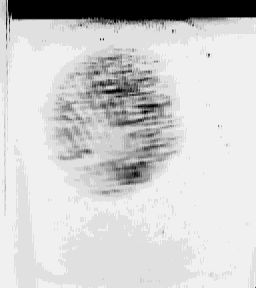
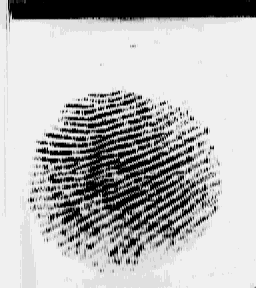
modify

diff --git a/getFingerprint.py b/getFingerprint.py
@@ -151,9 +151,10 @@ def GET_FINGERPRINT(ser, path='pic/origin.png'):
 
 def ADD_FINGERPRINT(ser):
     global ID
-    ID = eval(input("请输入ID: "))
-    while ID < 1 or ID > 200:
-        ID = eval(input("ID不正确，请重新输入(1-200): "))
+    ID = 1
+    # ID = eval(input("请输入ID: "))
+    # while ID < 1 or ID > 200:
+    #     ID = eval(input("ID不正确，请重新输入(1-200): "))
     print("请第一次输入指纹！")
     while rec_data[9] != b'\x00':  # 改成do while
         Send_A_Cmd(ser, PS_Getimage)
@@ -189,6 +190,7 @@ def ADD_FINGERPRINT(ser):
     print("合成特征成功！")
     rec_data[9] = 3
     check_and_set(ID)
+    ID += 1
     Send_A_Cmd(ser, PS_StoreChar_1tox)
     receive_data(ser)
     if rec_data[9] == b'\x00':
@@ -264,7 +266,7 @@ if __name__ == '__main__':
     ser = serial.Serial(serialPort, baudRate, timeout=0.2)
     print("参数设置：串口= %s ，波特率= %d" % (serialPort, baudRate))
 
-    while (1):
+    while True:
         # -----------------------正式代码-------------------------
         print("请选择功能：1.录入指纹   2.身份验证  3.删除ID=x起的n枚指纹   4.清空指纹库    5.获取指纹图像  6.退出")
         selection = eval(input())
@@ -278,7 +280,7 @@ if __name__ == '__main__':
             CLEAR_LIBRARY(ser)
         elif selection == 5:
             GET_FINGERPRINT(ser)
-        elif selection == 5:
+        elif selection == 6:
             break
 
     ser.close()

diff --git a/main.py b/main.py
@@ -14,12 +14,14 @@ from savenpz import save_npz
 serialPort_Finger = "/dev/tty.usbserial-1120"  # 串口号
 serialPort_Control = "/dev/tty.usbserial-1120"  # 串口号
 baudRate = 57600  # 波特率
+dataBit = 8
+stopBit = 2
 
 
 def getFingerPic():
     """获取指纹图像并保存到本地
     """
-    ser = serial.Serial(serialPort_Finger, baudRate, timeout=0.2)
+    ser = serial.Serial(serialPort_Finger, baudRate, stopbits=serial.STOPBITS_TWO, timeout=0.2)
     print("参数设置: 串口= %s ，波特率= %d" % (serialPort_Finger, baudRate))
 
     GET_FINGERPRINT(ser, 'pic/origin.png')
